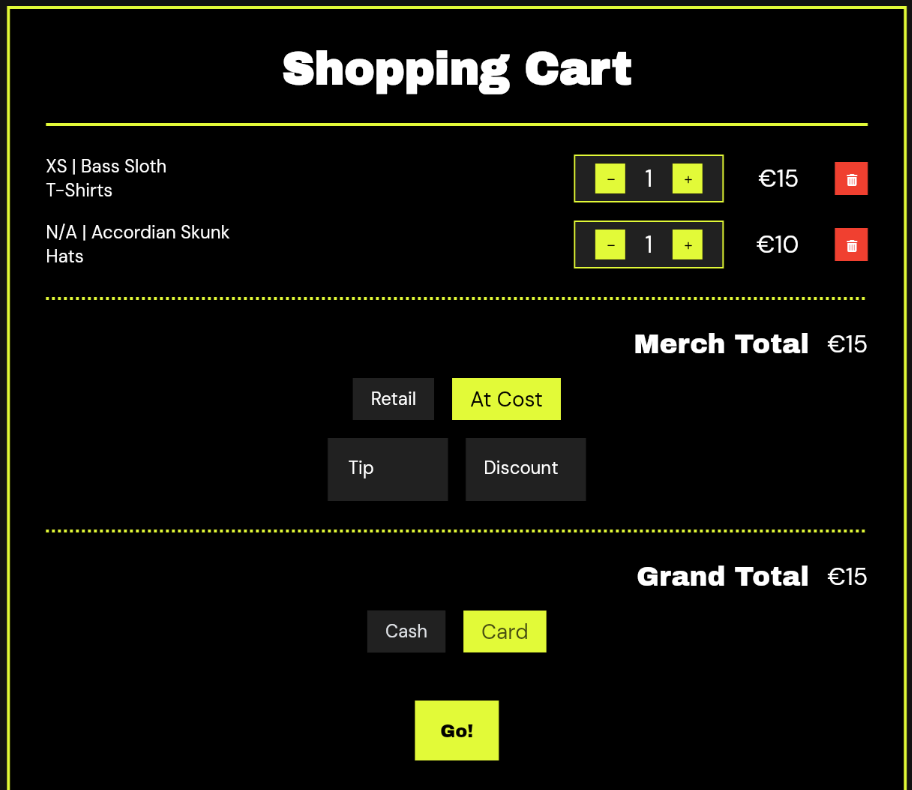
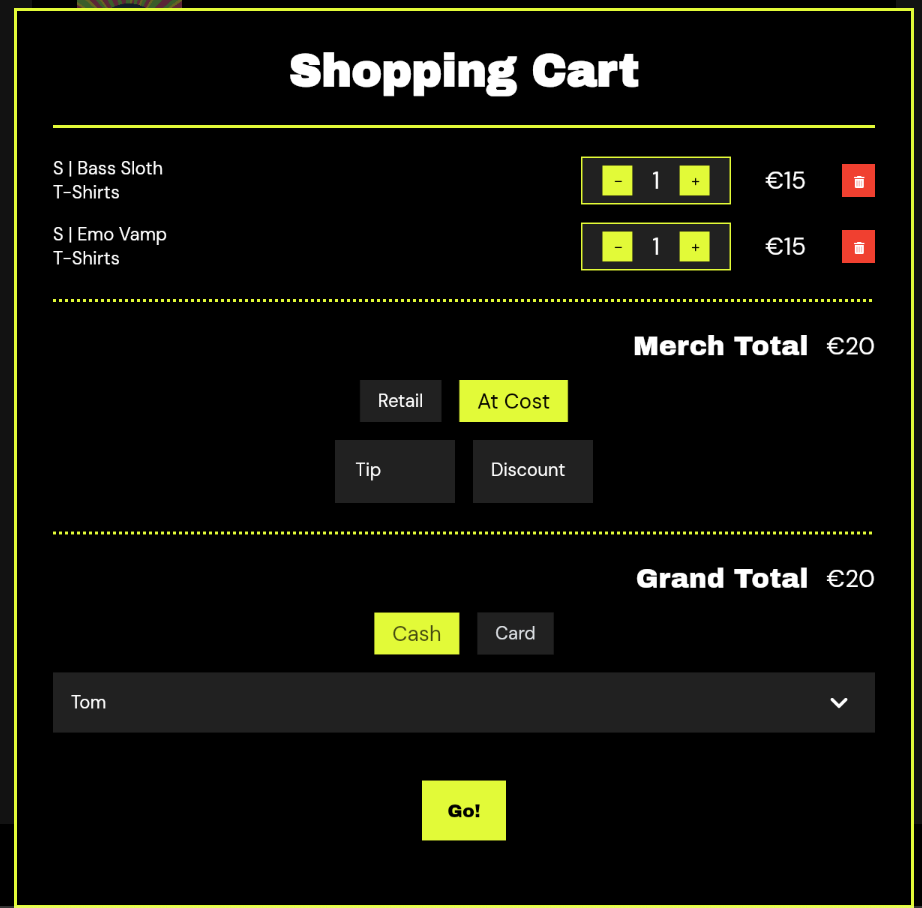
docs: User tweaks to refund/troubleshooting text and updated images

diff --git a/docs/Troubleshooting/03_Incorrect_Merch_Transaction.md b/docs/Troubleshooting/03_Incorrect_Merch_Transaction.md
@@ -8,7 +8,7 @@ Whether the customer paid with Cash or Credit Card, you **should not delete the 
 
 To fix the error:
 1. Leave the transaction alone in the Ledger. The financial amount perfectly matches the money deposited into your cash box or bank account. 
-2. An Admin should navigate to the **Merch Inventory** page.
+2. An Admin should navigate to the **Merch Inventory** page and long press the item. 
 3. Manually adjust the stock counts to reflect reality (e.g., manually add +1 to the Medium shirt stock, and subtract -1 from the Large shirt stock). 
 
 This instantly corrects your physical inventory counts for the rest of the tour without creating a messy trail of deleted transactions in your financial ledger.